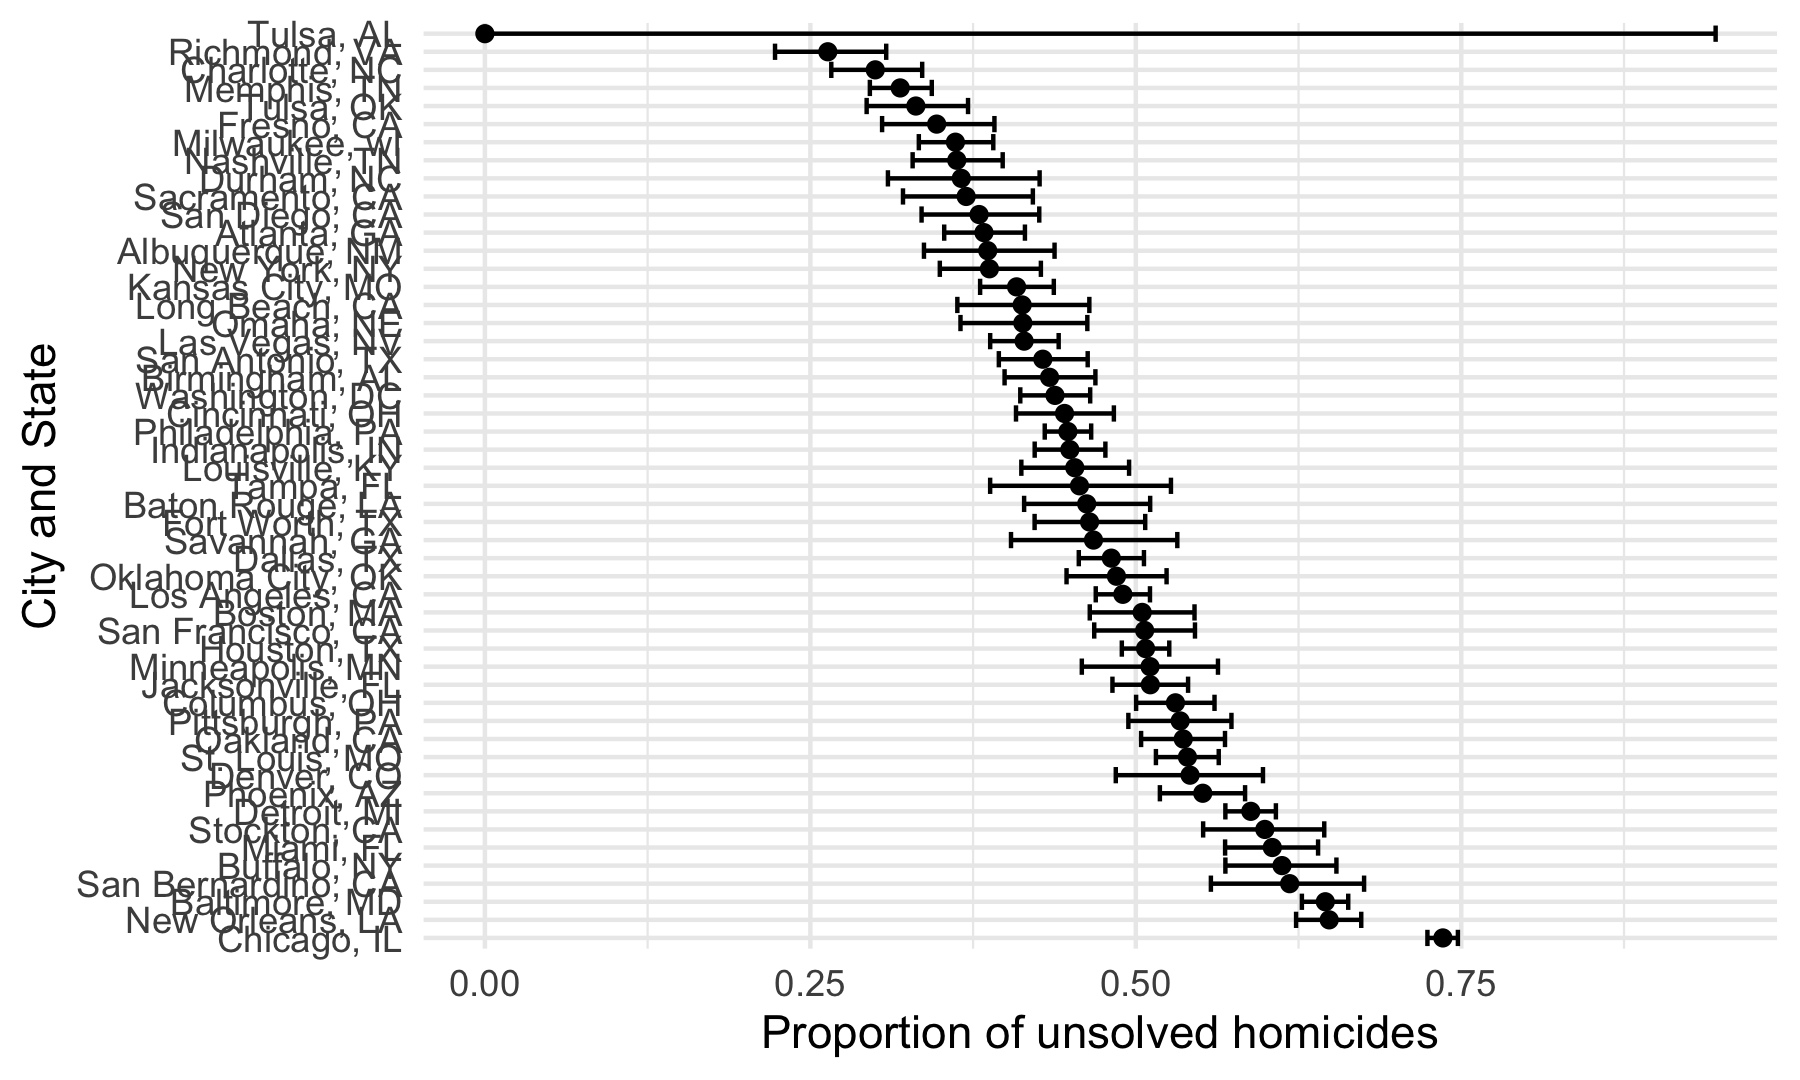
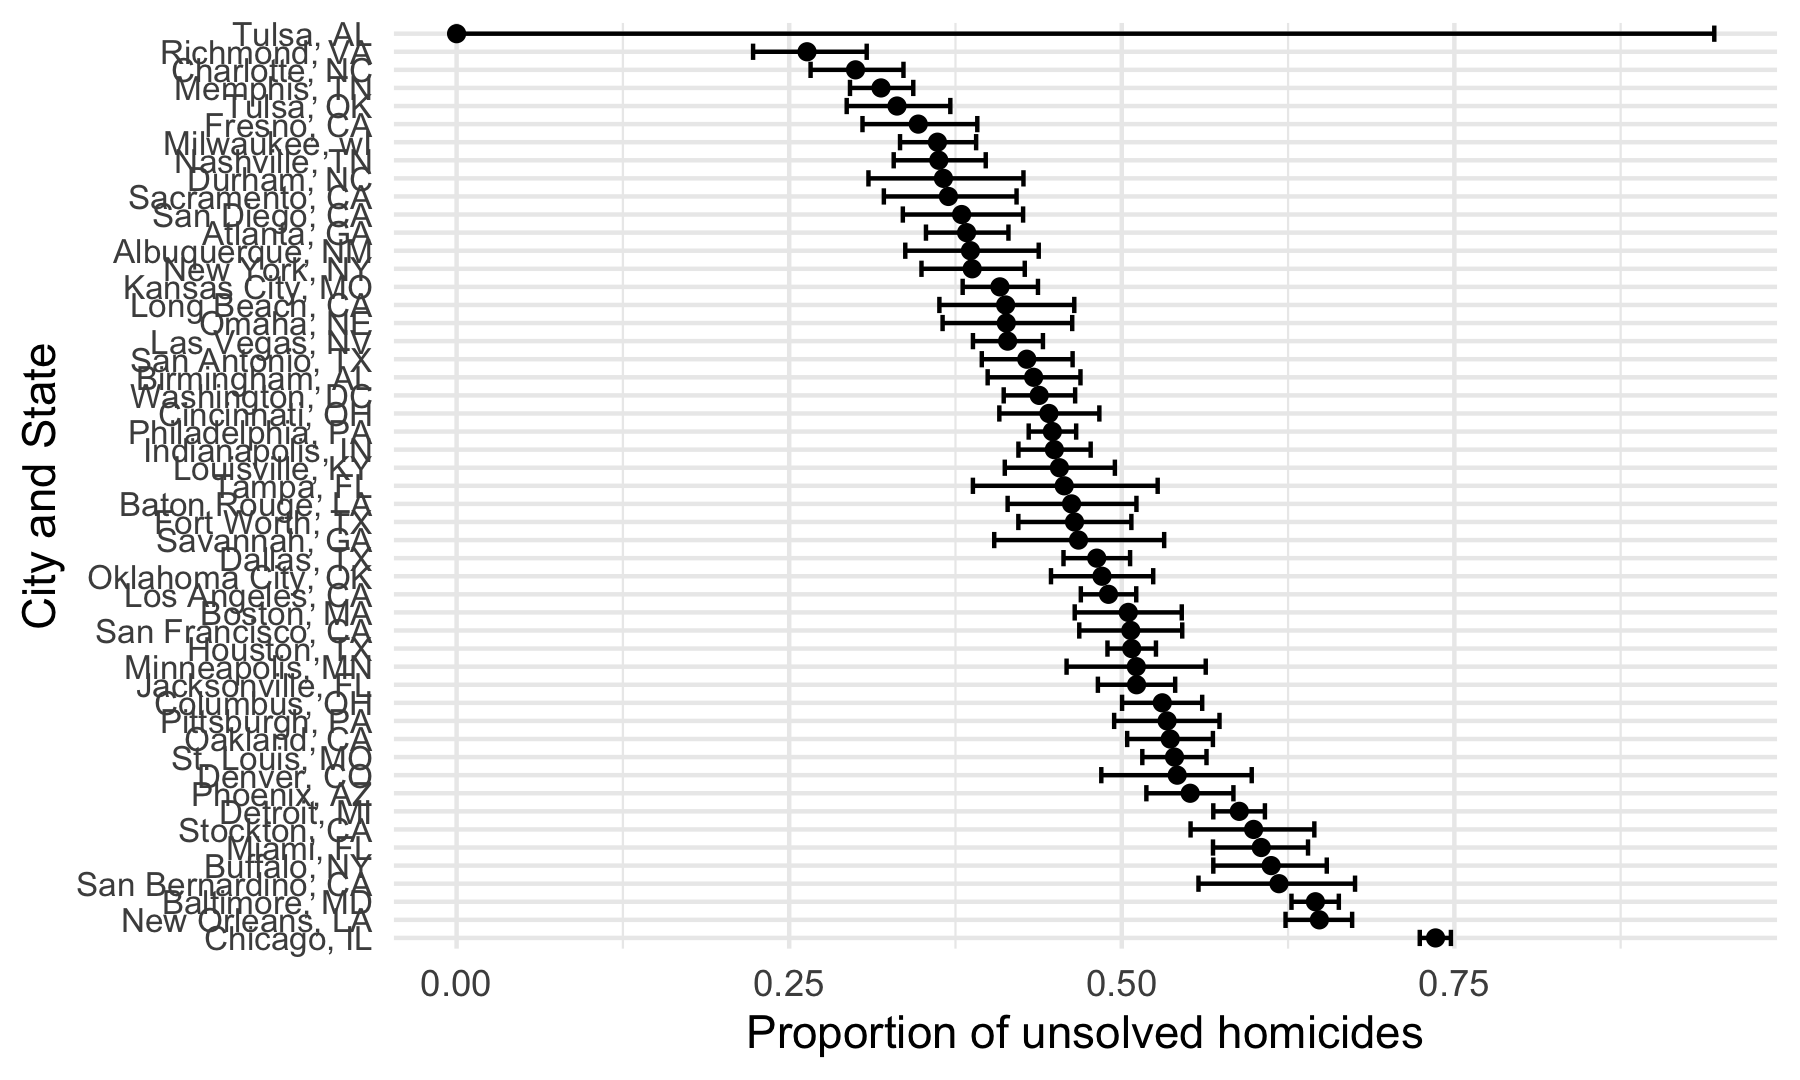
improve final outputs and text

diff --git a/p8105_hw5_irb2118.md b/p8105_hw5_irb2118.md
@@ -12,11 +12,6 @@ through variables to write more efficient data analysis pipelines in R.
 The data for this problem are created via simulation, and from a dataset
 available [here](https://github.com/washingtonpost/data-homicides).
 
-NEED TO DO \* Improve write up for all 3 problems \* Silence display of
-warnings in knit document \* work on viz on problem 2 \* fix output of
-viz in problem 3 \* Go through HW webpage, ensure we have met all
-requirements correctly
-
 # Problems
 
 ## Problem 1
@@ -103,7 +98,7 @@ save the results.
 
 ``` r
 sim_results_df <- 
-  tibble(iter = 1:500,
+  tibble(iter = 1:5000,
          mu = 0) |>
   mutate(results = map(mu, norm_samp)) |>
   unnest(results)
@@ -113,7 +108,7 @@ We can further extend this to values of $\mu$ from 1 to 6:
 
 ``` r
 sim_results_df <-
-  expand_grid(iter = 1:500, 
+  expand_grid(iter = 1:5000, 
               mu = 0:6) |>
   mutate(results = map(mu, norm_samp)) |>
   unnest(results)
@@ -137,12 +132,9 @@ sim_results_df |>
 
 <img src="p8105_hw5_irb2118_files/figure-gfm/unnamed-chunk-7-1.png" width="90%" />
 
-Make a plot showing the average estimate of 𝜇̂ on the y axis and the true
-value of 𝜇 on the x axis. Make a second plot (or overlay on the first)
-the average estimate of 𝜇̂ only in samples for which the null was
-rejected on the y axis and the true value of 𝜇 on the x axis. Is the
-sample average of 𝜇̂ across tests for which the null is rejected
-approximately equal to the true value of 𝜇 ? Why or why not?
+We can see that as $\mu$ increases, the power of the test increases.
+This makes intuitive sense, since the true $\mu$ value is moving further
+from the null value of 0.
 
 We can also look at the average estimate of $\hat{\mu}$:
 
@@ -165,17 +157,24 @@ rej_sim_plot <- sim_results_df |>
   geom_point(color = "red") +
   labs(x = "True mu value",
        y = "Average mu value from simluation",
-       title = "Simulations where null was rejected")
-```
+       title = "Simulations where null was \nrejected")
 
-    ## `summarise()` has grouped output by 'mu'. You can override using the `.groups`
-    ## argument.
-
-``` r
 all_sim_plot + rej_sim_plot
 ```
 
 <img src="p8105_hw5_irb2118_files/figure-gfm/unnamed-chunk-8-1.png" width="90%" />
+
+In all simulations, the average $\hat{\mu}$ value was close to the true
+value. In simulations where the null was rejected, the average
+$\hat{\mu}$ value was also close to the true value when $\mu$ was large,
+and when it was 0, but not when it took a low value (between 1-3). For
+$\mu= 0$ you would expect the average to be 0, since the rejection of
+the null could occur in either direction (higher or lower). However for
+$\mu$ close to (but not equal to) 0, the null hypothesis that \$= 0 \$
+will be rejected more often at higher values than lower values, leading
+to the skewed results seen in the plot for $\mu$ values close to 0. Once
+$\mu$ is sufficiently high, you reject the null so frequently that you
+revocer the original normal distribution.
 
 ## Problem 3
 
@@ -209,7 +208,7 @@ information, the city, state, latitude/longitude, and the disposition
 
 Now, we can manipulate the data to learn more about the unsolved
 homicides. I will create a `city_state` variable, then summarize along
-that variable to get total homicides and total unsolves homicides (those
+that variable to get total homicides and total unsolved homicides (those
 with disposition “Closed without arrest” or “Open/No arrest”).
 
 ``` r
@@ -251,14 +250,7 @@ city_estimates <- city_df |>
   unnest(result_tbl) |>
   select(city_state, total_homicides, total_unsolved, 
          estimate, conf.low, conf.high)
-```
 
-    ## Warning: There was 1 warning in `mutate()`.
-    ## ℹ In argument: `result = map2(...)`.
-    ## Caused by warning in `prop.test()`:
-    ## ! Chi-squared approximation may be incorrect
-
-``` r
 head(city_estimates)
 ```
 
@@ -284,7 +276,8 @@ city_estimates |>
   geom_point() + 
   geom_errorbar(aes(xmin = conf.low, xmax = conf.high)) +
   labs(x = "Proportion of unsolved homicides",
-       y = "City and State")
+       y = "City and State") + 
+  theme(axis.text.y = element_text(size = 8))
 ```
 
 <img src="p8105_hw5_irb2118_files/figure-gfm/unnamed-chunk-13-1.png" width="90%" />
